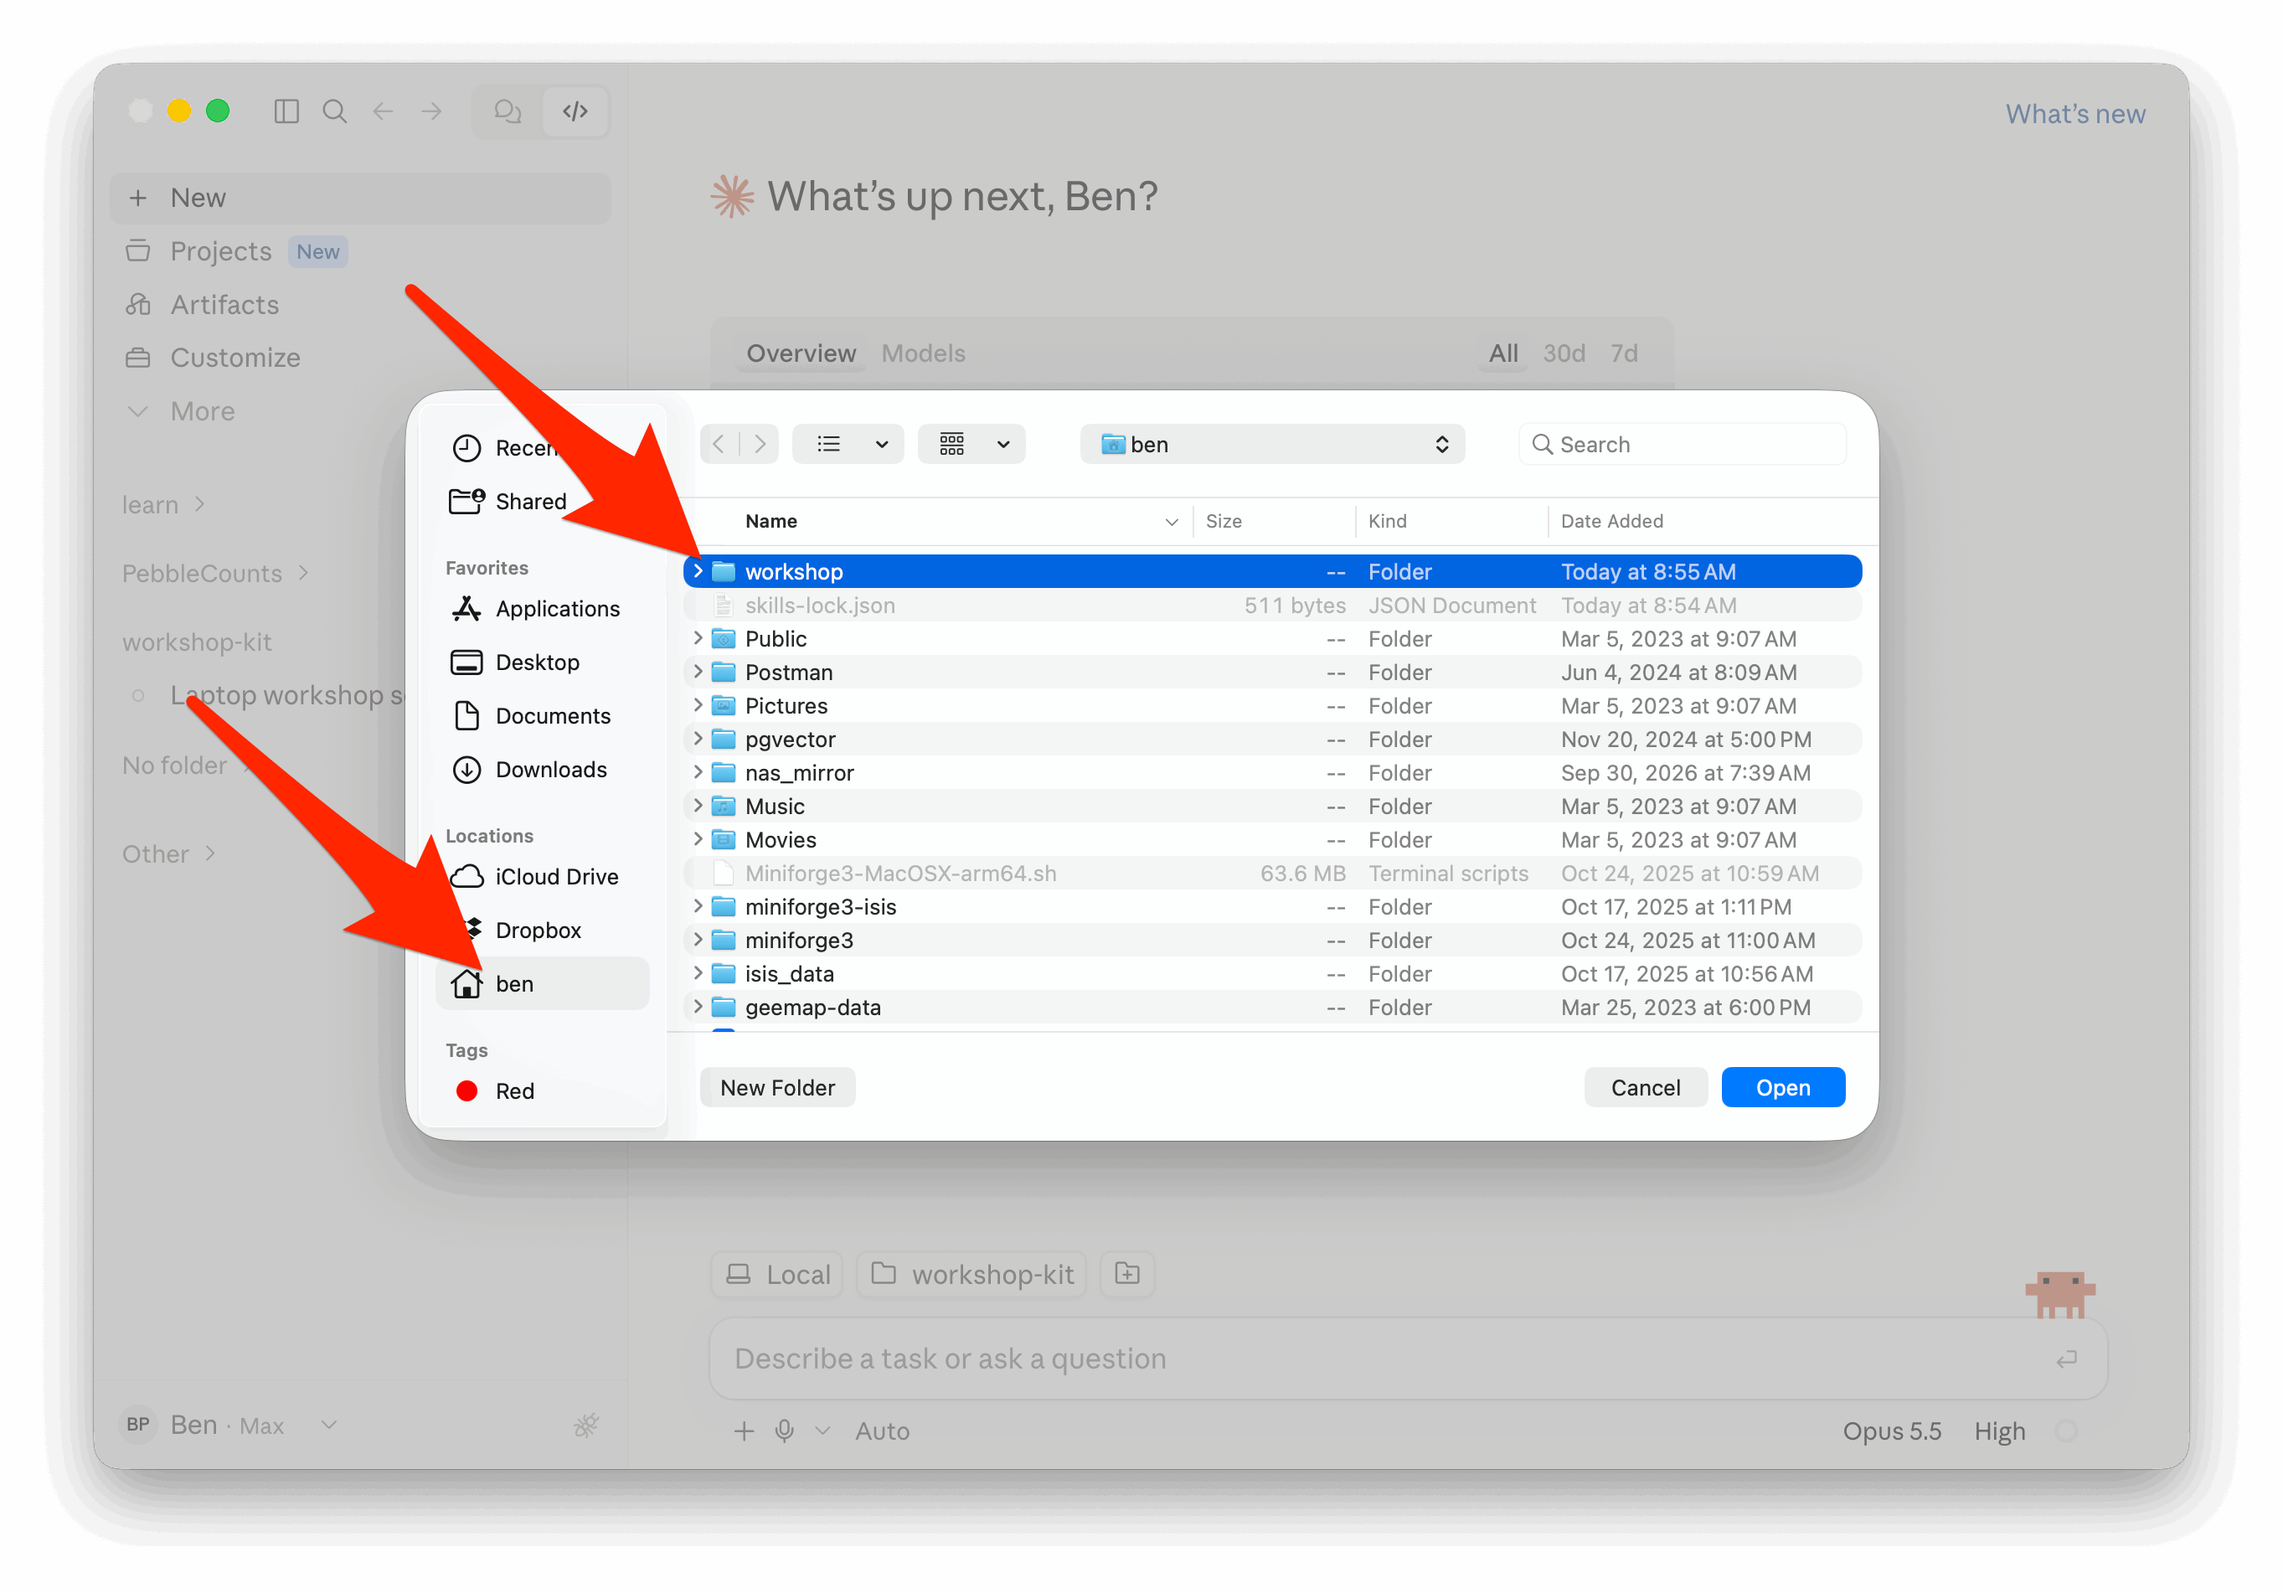
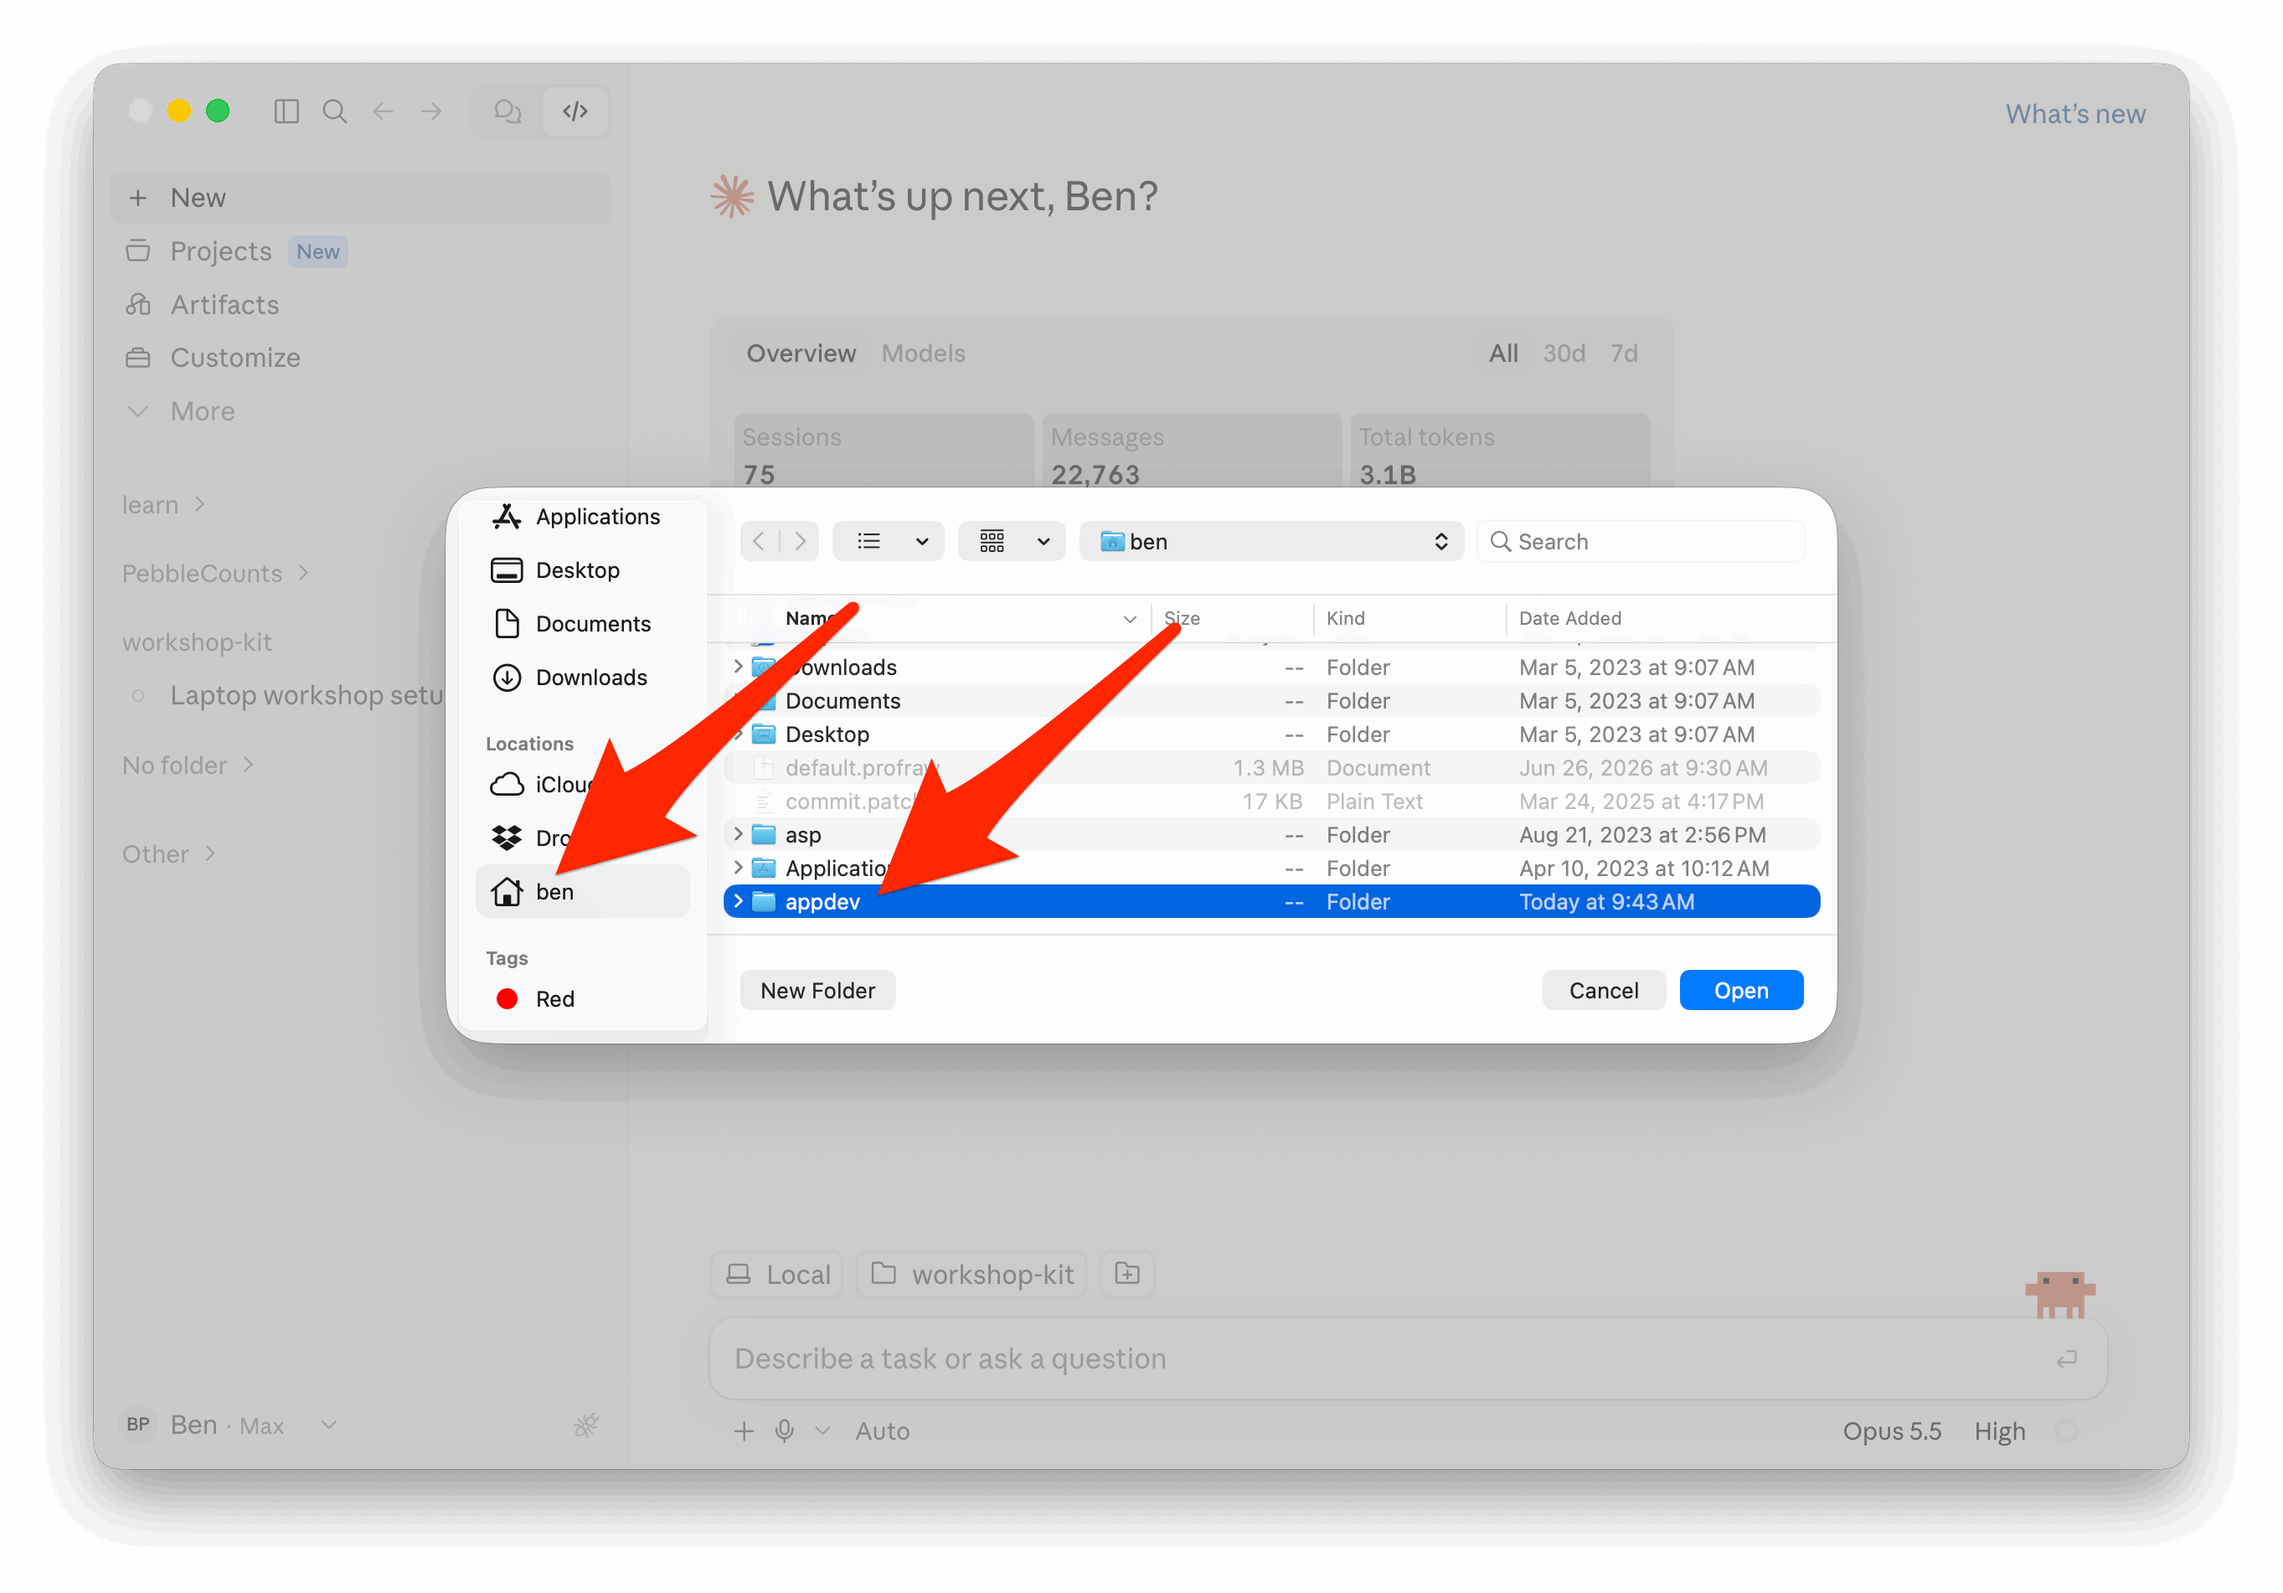
Show the default folder names in the Mac captures
The step 6 Mac screenshots showed a projects folder called workshop,
but the README and scripts/mac/setup.sh default to ~/appdev, and the
kit suggests firstdraft-workshop as the app name. Attendees following
the pictures would look for a folder they don't have.

Retake both captures with ~/appdev and ~/appdev/firstdraft-workshop,
and name those defaults in the alt text.

Changed region(s): [[0.1247, 0.1861, 0.8419, 0.7445], [0.0624, 0.4343, 0.1247, 0.4963]]

diff --git a/README.md b/README.md
@@ -58,9 +58,9 @@ When you first try to sign in to First Draft, you'll hit a username/password wal
 
    ![On a Mac, after reopening Claude Desktop, click the folder button below the message box, then Open folder.](images/mac-change-folder.png)
 
-   ![Click your home folder in the sidebar, then the projects folder you chose in step 5.](images/mac-home-folder.png)
+   ![Click your home folder in the sidebar, then the projects folder you chose in step 5, here appdev.](images/mac-home-folder.png)
 
-   ![Inside the projects folder, select your project's folder, then click Open.](images/mac-project-folder.png)
+   ![Inside appdev, select your project's folder, here firstdraft-workshop, then click Open.](images/mac-project-folder.png)
 7. Type `/workshop-signin` and press Enter. Claude opens each sign-in page in your browser and copies any code you
    need to your clipboard. Approve each one and tell Claude when you are done, until every account is signed in.
    - **Cloudinary** stores your app's photos and has nothing to approve. After you sign up, Claude opens its
